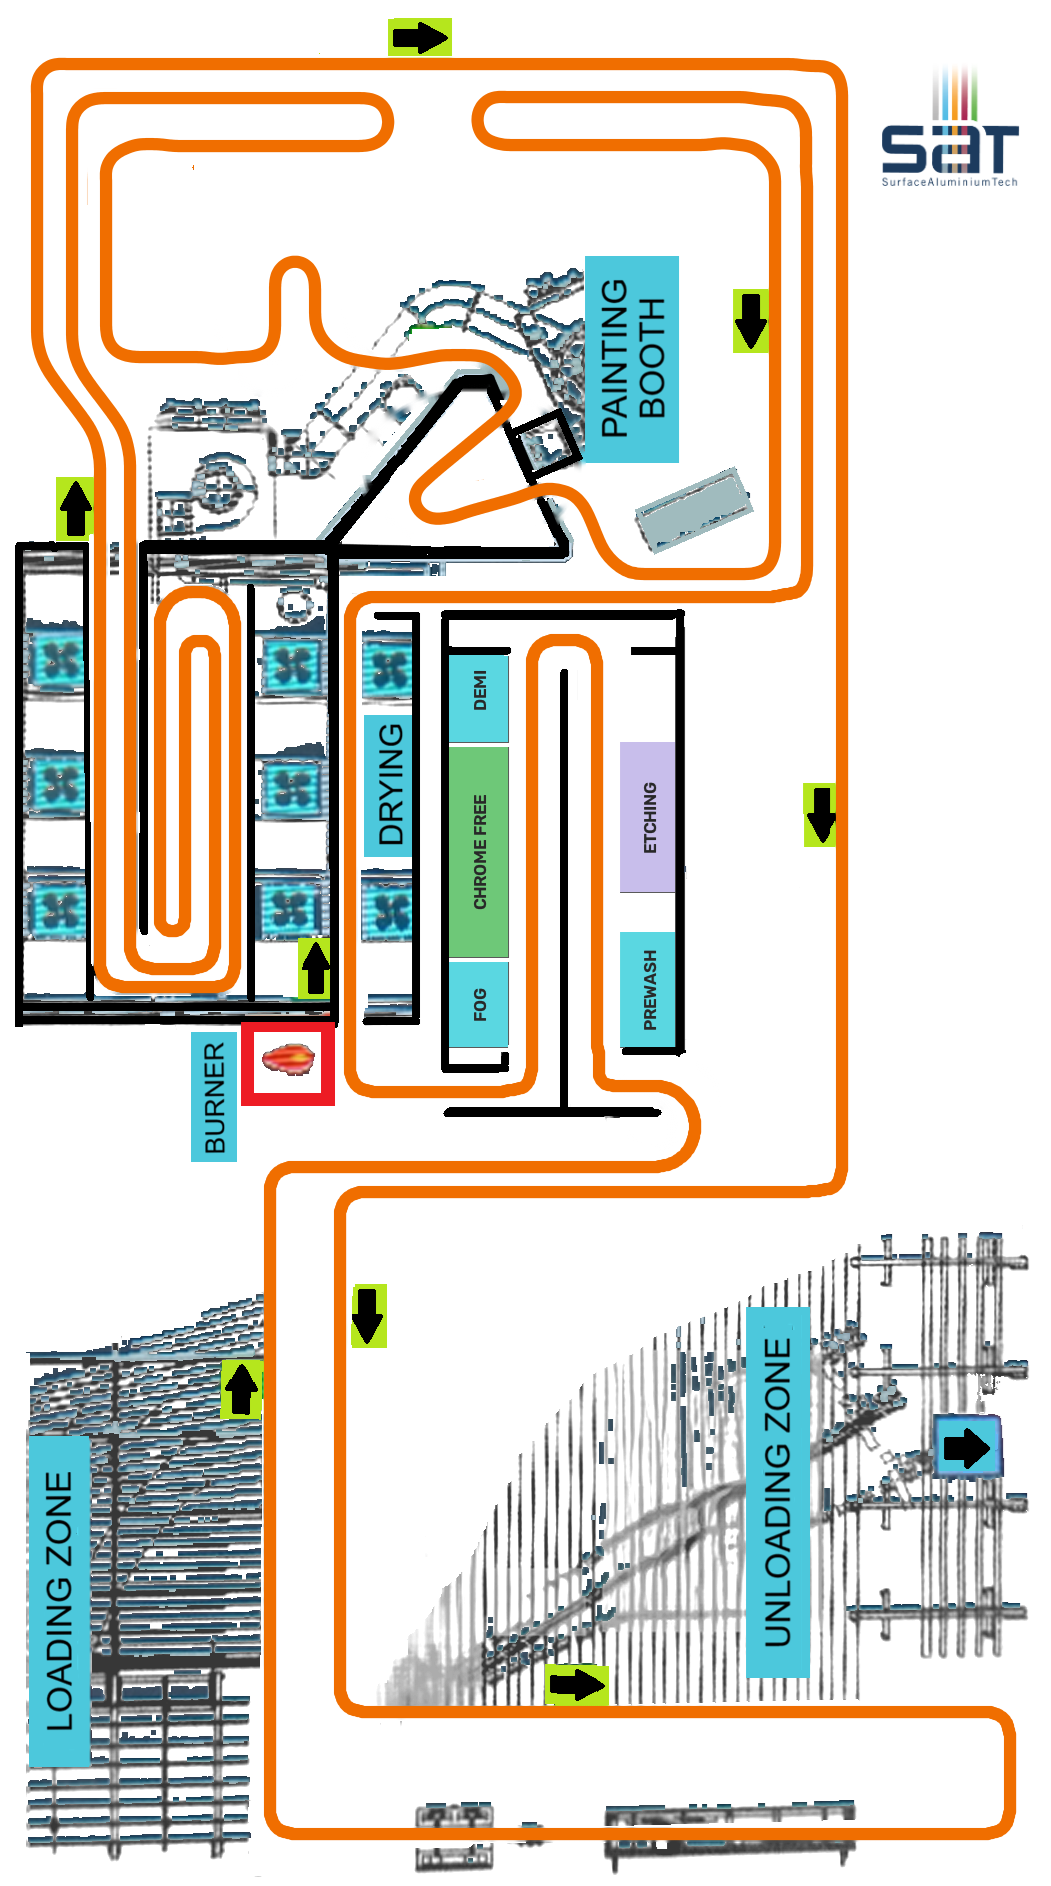
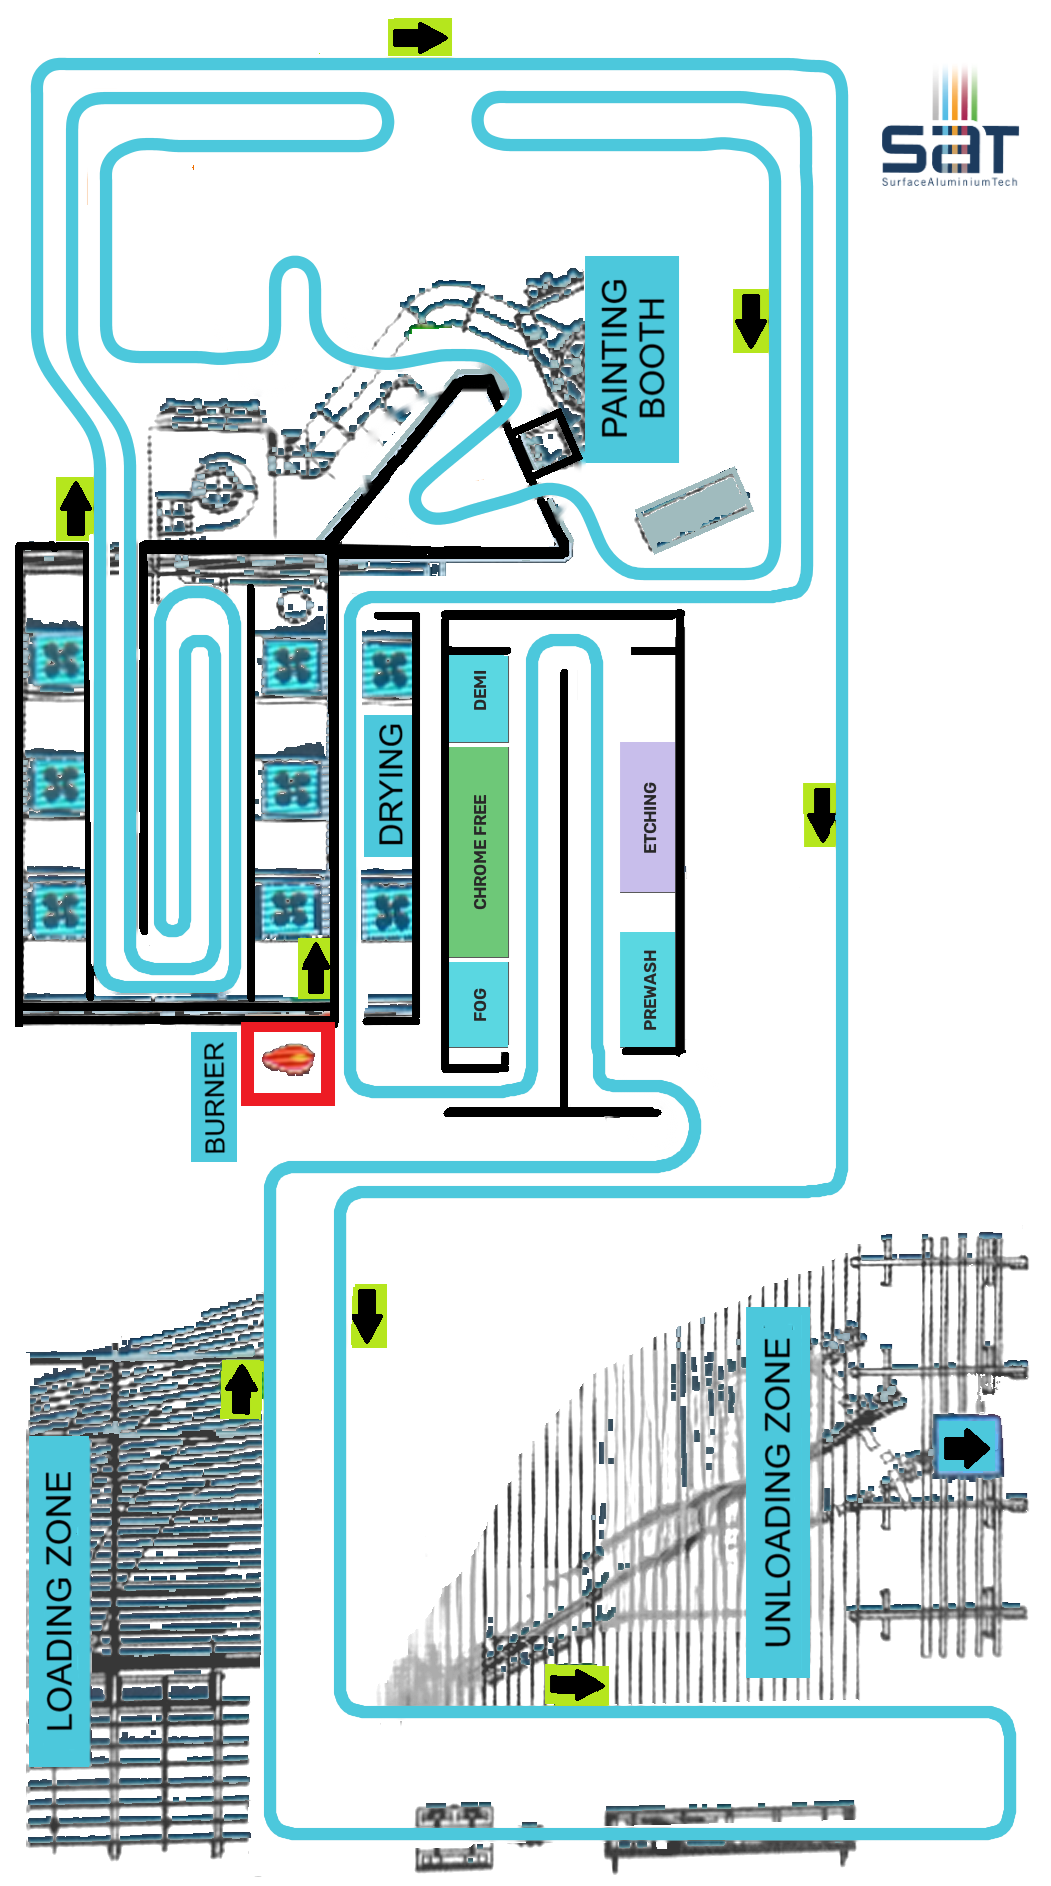
Blue (#4CC8DC) track image, red loading bands, marker colours adjusted; cache v13

Changed region(s): [[0.0304, 0.0308, 0.9743, 0.9841]]

diff --git a/index.html b/index.html
@@ -34,7 +34,7 @@ button:disabled,button.red:disabled,button.green:disabled,button.grey:disabled,b
  <g id="bands"></g>
  <g id="marks"></g>
 </svg>
-<div class="hint">Tap the orange track to drop a marker. Solid = where it is now. Flashing = where it will be at the time you pick. Tap a marker to see its details.</div>
+<div class="hint">Tap the track to drop a marker. Solid = where it is now. Flashing = where it will be at the time you pick. Tap a marker to see its details.</div>
 <div id="sel" class="big"></div>
 </div>
 
@@ -93,7 +93,7 @@ function nearest(x,y){let b=1e18,bi=0;for(let i=0;i<NP;i++){const d=(P[i][0]-x)*
 function sectionOf(t){if(t<0)return 'Returning to Loading';if(t<0.5)return 'Loading';if(t>=TEND)return t<TEND+0.5?'Unloading':'Returning to Loading';
  for(let i=0;i<NS;i++)if(t<CT[i+1])return SEC[i];return '';}
 const BASE=1.2;
-const COLS=['#00e5ff','#ff00ff','#76ff03','#2979ff','#b04dff','#ffffff','#ffea00','#00e676'];const col=i=>COLS[i%COLS.length];
+const COLS=['#ff9100','#ff00ff','#76ff03','#ffea00','#b04dff','#ffffff','#00e676','#f48fb1'];const col=i=>COLS[i%COLS.length];
 // ---- saved state (per device) ----
 let markers=JSON.parse(localStorage.getItem('vpl_markers')||'[]'); // {t0: base minutes at drop, lc: line-clock ms at drop, hung: wall ms}
 let speed=parseFloat(localStorage.getItem('plt_speed')||'1.2');document.getElementById('speed').value=speed;
@@ -120,8 +120,8 @@ const bandFront=(B,w)=>bandAdv(B.f,B.flc,w),bandBack=(B,w)=>B.b===null?0:bandAdv
 function bandPath(t1,t2){const s1=tToS(t1),s2=tToS(t2);let a=sToXY(s1),d=`M${a[0].toFixed(1)},${a[1].toFixed(1)}`;
  for(let i=0;i<NP;i++)if(D[i]>s1&&D[i]<s2)d+=`L${P[i][0]},${P[i][1]}`;const b=sToXY(s2);return d+`L${b[0].toFixed(1)},${b[1].toFixed(1)}`;}
 function drawBands(now){bands=bands.filter(B=>bandBack(B,now)<TEND-1e-6);let h='',fh='';
- bands.forEach(B=>{const f=bandFront(B,now),k=bandBack(B,now);if(f>k)h+=`<path d="${bandPath(k,f)}" fill="none" stroke="#4CC8DC" stroke-width="13" stroke-linecap="round" stroke-linejoin="round"/>`;
-  if(viewTime!==null&&viewTime>=now){const ff=bandFront(B,viewTime),fk=bandBack(B,viewTime);if(ff>fk&&fk<TEND-1e-6)fh+=(d=>`<path d="${d}" stroke="#fff" stroke-width="21"/><path d="${d}" stroke="#0b4f5c" stroke-width="15"/><path d="${d}" stroke="#4CC8DC" stroke-width="9" stroke-dasharray="22 12"/>`)(bandPath(fk,ff));}});
+ bands.forEach(B=>{const f=bandFront(B,now),k=bandBack(B,now);if(f>k)h+=(d=>`<path d="${d}" fill="none" stroke="#4a0b0b" stroke-width="15" stroke-linecap="round" stroke-linejoin="round"/><path d="${d}" fill="none" stroke="#E53935" stroke-width="11" stroke-linecap="round" stroke-linejoin="round"/>`)(bandPath(k,f));
+  if(viewTime!==null&&viewTime>=now){const ff=bandFront(B,viewTime),fk=bandBack(B,viewTime);if(ff>fk&&fk<TEND-1e-6)fh+=(d=>`<path d="${d}" stroke="#fff" stroke-width="21"/><path d="${d}" stroke="#4a0b0b" stroke-width="15"/><path d="${d}" stroke="#E53935" stroke-width="9" stroke-dasharray="22 12"/>`)(bandPath(fk,ff));}});
  if(fh)h+=`<g class="flash2" style="animation-delay:-${Date.now()%1200}ms" fill="none" stroke-linecap="round" stroke-linejoin="round">${fh}</g>`;
  const bg=document.getElementById('bands');if(bg.__h!==h){bg.innerHTML=h;bg.__h=h;}const act=bands.some(B=>B.b===null);
  document.getElementById('lstart').disabled=act;document.getElementById('lstop').disabled=!act;document.getElementById('lreset').disabled=!bands.length;}
@@ -143,7 +143,7 @@ const nb=bands.length;drawBands(now);if(bands.length!==nb)save();marksG.innerHTM
  const pz=PS.at!==null;document.getElementById('pausebar').style.display=pz?'block':'none';
  const pb=document.getElementById('pause');pb.textContent=pz?'Resume line':'Pause line';pb.className=pz?'green':'amber';
  document.getElementById('ptimer').textContent=hms(pausedTotal(now));
- document.getElementById('status').innerHTML=viewTime!==null?`Solid = now (${fmt(new Date())}). Flashing = <b>${fmtD(new Date(viewTime))}</b>${bands.length?' (flashing blue = loading then)':''}${pz?' (assumes the line stays paused)':''}`:`Live: <b>${fmt(new Date())}</b>`;}
+ document.getElementById('status').innerHTML=viewTime!==null?`Solid = now (${fmt(new Date())}). Flashing = <b>${fmtD(new Date(viewTime))}</b>${bands.length?' (flashing red = loading then)':''}${pz?' (assumes the line stays paused)':''}`:`Live: <b>${fmt(new Date())}</b>`;}
 window.delM=i=>{markers.splice(i,1);selIdx=null;save();draw();};
 svg.addEventListener('click',e=>{const pt=svg.createSVGPoint();pt.x=e.clientX;pt.y=e.clientY;const p=pt.matrixTransform(svg.getScreenCTM().inverse());
  for(let i=0;i<curXY.length;i++){const q=curXY[i];if(q&&Math.hypot(q[0]-p.x,q[1]-p.y)<26){selIdx=i;draw();const el=document.getElementById('mk'+i);return;}}

diff --git a/sw.js b/sw.js
@@ -1,4 +1,4 @@
-const C='lt-v12-vpl';const F=['./','index.html','manifest.json','icon-192.png','icon-512.png','vpl.png'];
+const C='lt-v13-vpl';const F=['./','index.html','manifest.json','icon-192.png','icon-512.png','vpl.png'];
 self.addEventListener('install',e=>{e.waitUntil(caches.open(C).then(c=>c.addAll(F)));self.skipWaiting();});
 self.addEventListener('activate',e=>{e.waitUntil(caches.keys().then(k=>Promise.all(k.filter(x=>x!==C).map(x=>caches.delete(x)))));self.clients.claim();});
 self.addEventListener('fetch',e=>{if(new URL(e.request.url).origin!==self.location.origin||e.request.method!=='GET')return;e.respondWith(fetch(e.request).then(r=>{const cp=r.clone();caches.open(C).then(c=>c.put(e.request,cp));return r;}).catch(()=>caches.match(e.request)));});
